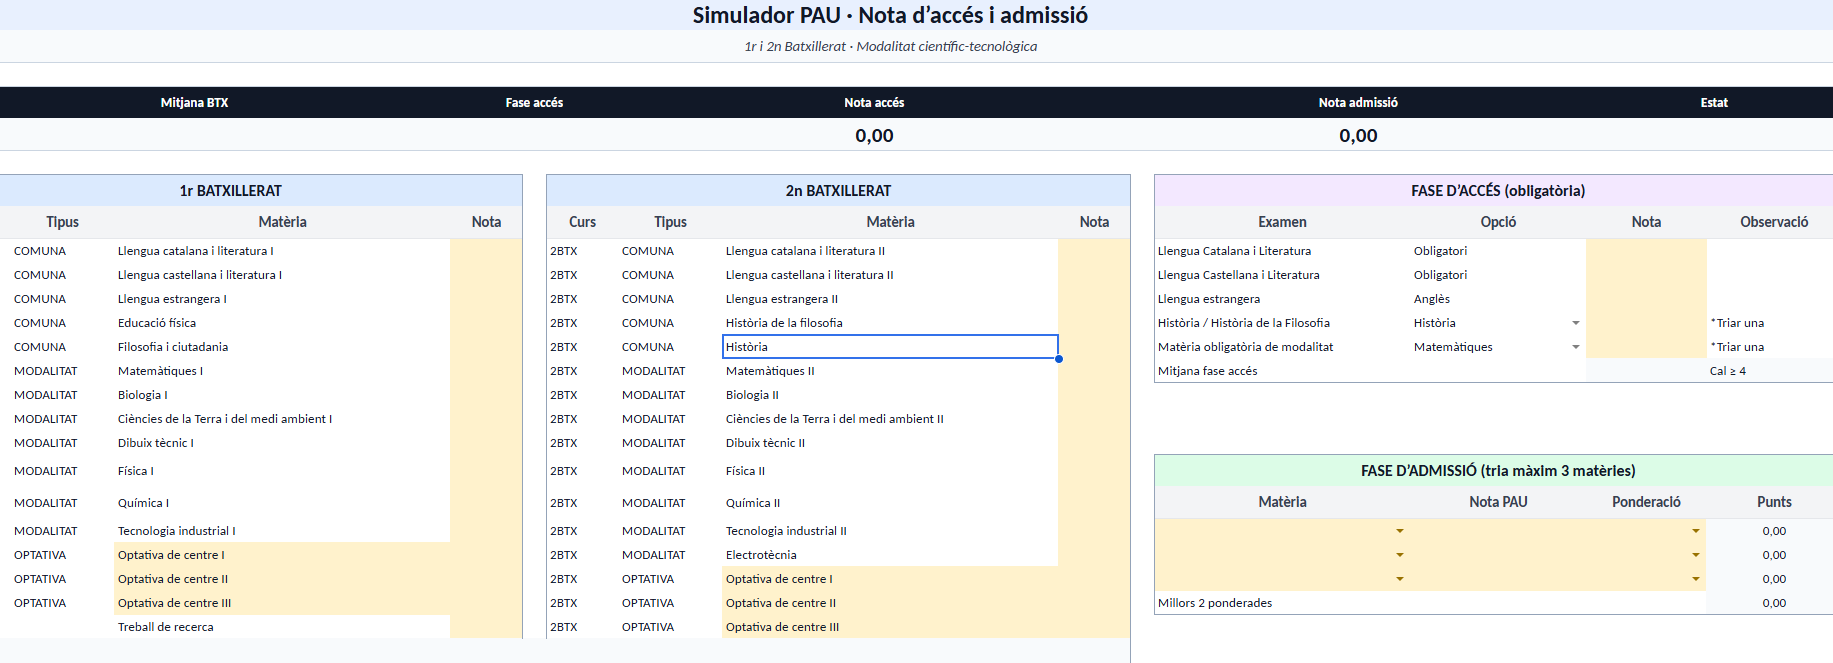
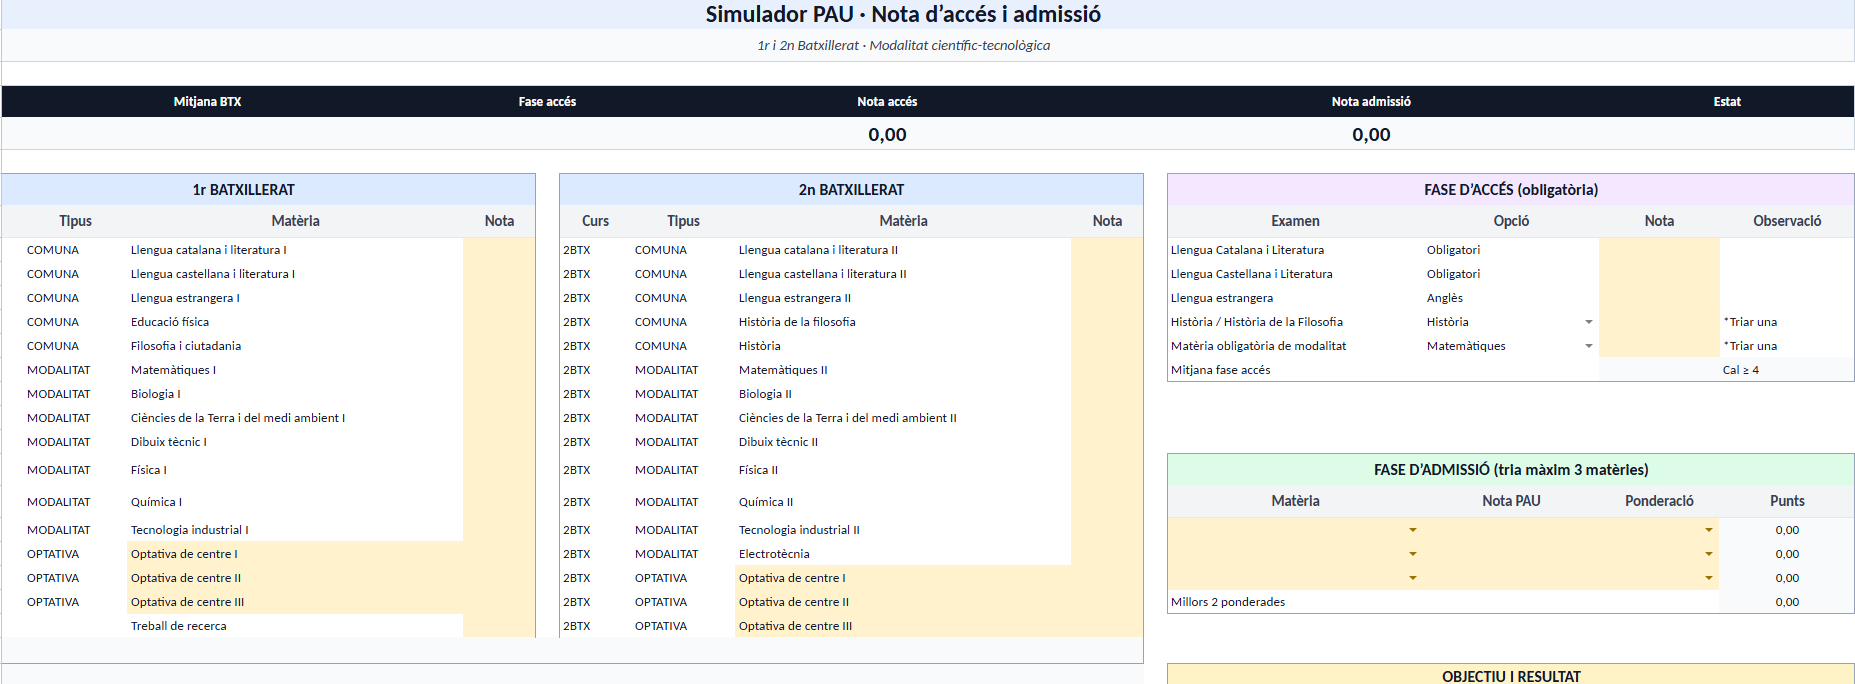
modified:   img/ex/simulacio_pau.png 	modified:   md/orientacio-pau.md

diff --git a/md/orientacio-pau.md b/md/orientacio-pau.md
@@ -1,6 +1,6 @@
 # Orientació PAU
 
-## 1. Què són les PAU?
+### 1 — Què són les PAU?
 - Les **PAU** són les **Proves d'Accés a la Universitat**.
 - Serveixen per accedir a la universitat i per calcular la **nota d'accés** i la **nota d'admissió**.
 - La informació oficial es consulta a la web del Departament: [https://universitats.gencat.cat/ca/pau/](https://universitats.gencat.cat/ca/pau/)
@@ -10,7 +10,7 @@
 
 ---
 
-## 2. Estructura de la nota
+### 2 — Estructura de la nota
 Hi ha **dues notes diferents**:
 
 > *Nota d'accés*
@@ -33,7 +33,7 @@ On:
 
 ---
 
-## 3. Fase d'accés
+### 3 — Fase d'accés
 
 Fase d’accés (**obligatòria**). Consta de cinc exàmens:
 
@@ -52,7 +52,8 @@ Per a la modalitat de ciències i tecnologia a triar entre:
 
 ---
 
-## 4. Fase d'admissió
+### 4 — Fase d'admissió
+
 És la part que serveix per **pujar nota**.
 
 - Pots examinar-te de matèries que ajudin a entrar al grau que vols fer.
@@ -63,14 +64,65 @@ Per a la modalitat de ciències i tecnologia a triar entre:
 
 ---
 
-## 5. Ponderacions
+### 5 — Ponderacions
+
 Les ponderacions serveixen per donar més valor a la qualificació obtinguda a la PAU a algunes matèries de batxillerat si estan relacionades amb el grau que vols estudiar: 
 
 | ![Ponderacions 2027](img/ex/ponderacions.png) |
 |:--------------------------------------:|
 | *[Ponderacions 2027](https://universitats.gencat.cat/web/.content/02_preinscripcio/enllac-documents/Ponderacions-2027_v1.pdf)* |
 
-## 6. Simulació
+### 6 — Simulació
+
+En aquesta activitat farem una **simulació de la nota d’accés i d’admissió a la universitat** utilitzant les vostres notes actuals.
+
+> Idea clau: no disposem de les notes finals, per tant farem una aproximació realista basada en el vostre rendiment actual.
+
+---
+
+> *Notes de Batxillerat*
+
+Per calcular la mitjana de Batxillerat:
+
+- Les **notes de 1r de Batxillerat** seran les del **primer trimestre**
+- Les **notes de 2n de Batxillerat** seran les del **segon trimestre**
+
+> Aquestes notes s’introdueixen al simulador i permeten calcular la **mitjana de Batxillerat**.
+
+---
+
+> *Notes de la fase d’accés (PAU)*
+
+Per simular la nota de cada examen de la PAU:
+
+1. Calcula la **mitjana dels dos trimestres** de cada assignatura
+2. Resta-li la **desviació territorial**
+
+`Nota PAU simulada = Mitjana assignatura − desviació territorial`
+
+---
+
+> *Desviació territorial*
+
+- La desviació territorial és la diferència entre les notes de Batxillerat i les notes de PAU a Catalunya en el cas particular del Maresme.
+- Aquesta informació s’ha de buscar a les **estadístiques oficials de les PAU 2025**
+
+> Cada alumne haurà de buscar la desviació de les seves assignatures i aplicar-la correctament.
+
+---
+
+> *Fase d’admissió*
+
+- Pots examinar-te de **fins a 3 assignatures de modalitat**
+- El sistema només tindrà en compte les **2 millors notes ponderades**
+
+> Cal escollir les assignatures que **més ponderen per al grau que vols estudiar**.
+
+---
+
+> Aquesta simulació serveix per entendre el sistema i prendre decisions estratègiques sobre el teu futur acadèmic.
+
+---
 
 | ![Simulació nota PAU](img/ex/simulacio_pau.png) |
 |:--------------------------------------:|
@@ -83,4 +135,23 @@ Les ponderacions serveixen per donar més valor a la qualificació obtinguda a l
 | ![Notes de tall](img/ex/notes_tall.png) |
 |:--------------------------------------:|
 | *[Notes de tall](https://universitats.gencat.cat/web/.content/02_preinscripcio/enllac-documents/notes-de-tall/Notes-de-tall-via-PAU-CFGS_2021_2025.pdf)* |
+
+---
+
+### 7 — Reflexió
+
+Un cop completada la simulació:
+
+- Escull un **grau universitari**
+- Busca la seva **nota de tall**
+- Compara-la amb la teva **nota d’admissió simulada**
+
+Respon:
+
+- Quina és la teva nota d’admissió?
+- Estàs per sobre o per sota de la nota de tall?
+- Quines assignatures et convé millorar?
+- Quina estratègia seguiràs per arribar-hi?
+
+---
 